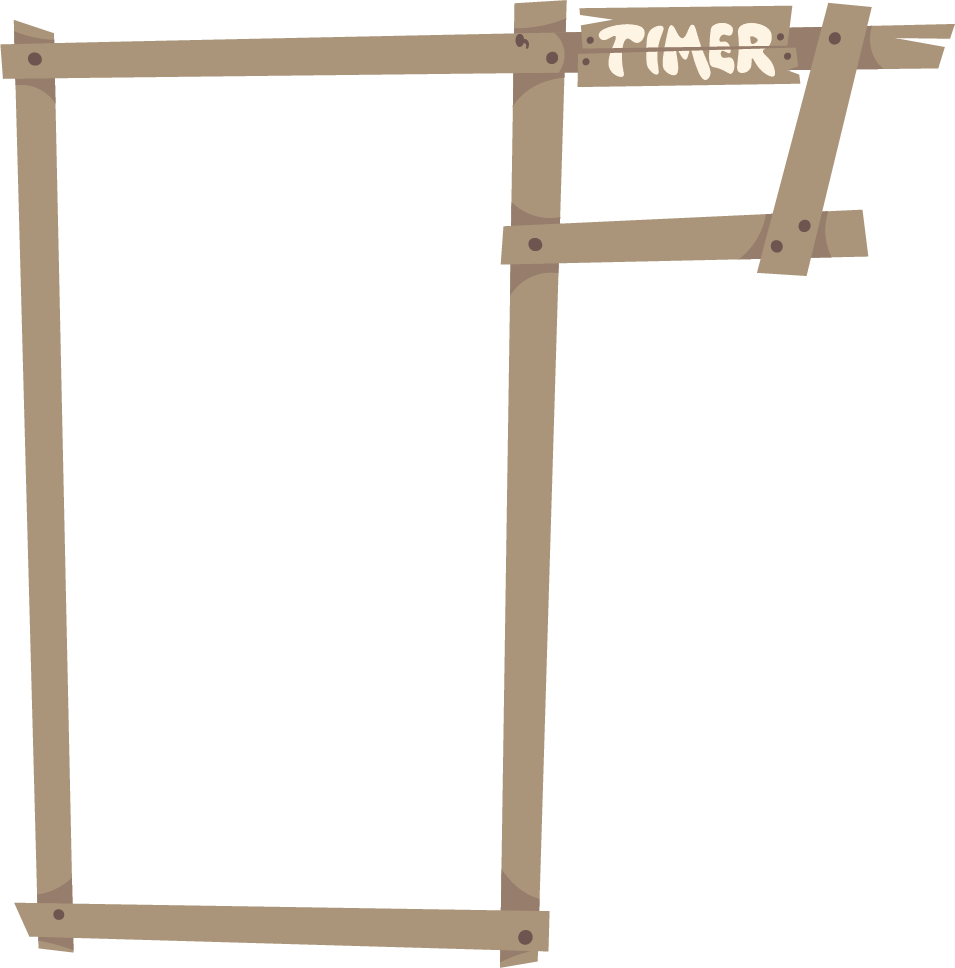
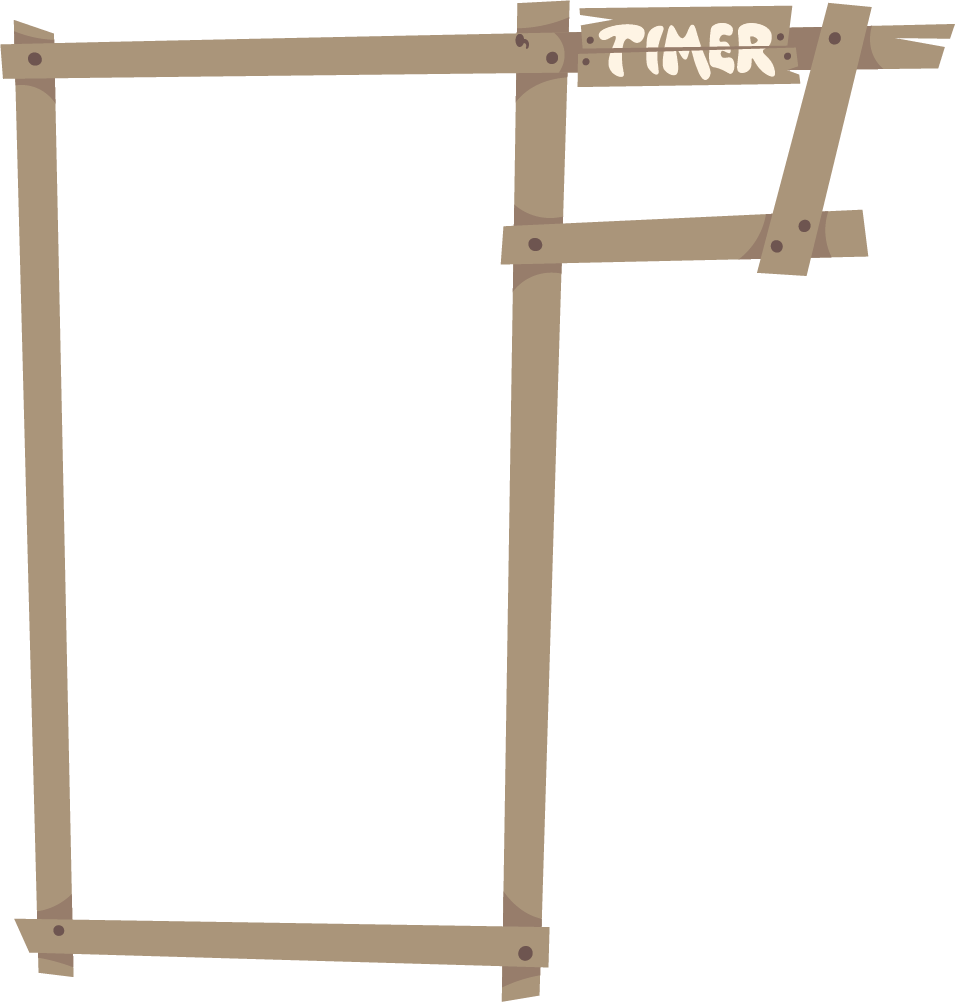
ui tweaks

diff --git a/Assets/Scripts/MinigameManager.cs b/Assets/Scripts/MinigameManager.cs
@@ -43,7 +43,7 @@ public class MinigameManager : MonoBehaviour
 
         if (greenZoneRects[0] != null)
         {
-            float greenZoneBottom = greenZoneRects[0].anchoredPosition.y - (greenZoneRects[0].rect.height / 2f);
+            float greenZoneBottom = greenZoneRects[0].anchoredPosition.y - (greenZoneRects[0].rect.height / 4f);
 
             if (fishY <= greenZoneBottom)
             {
